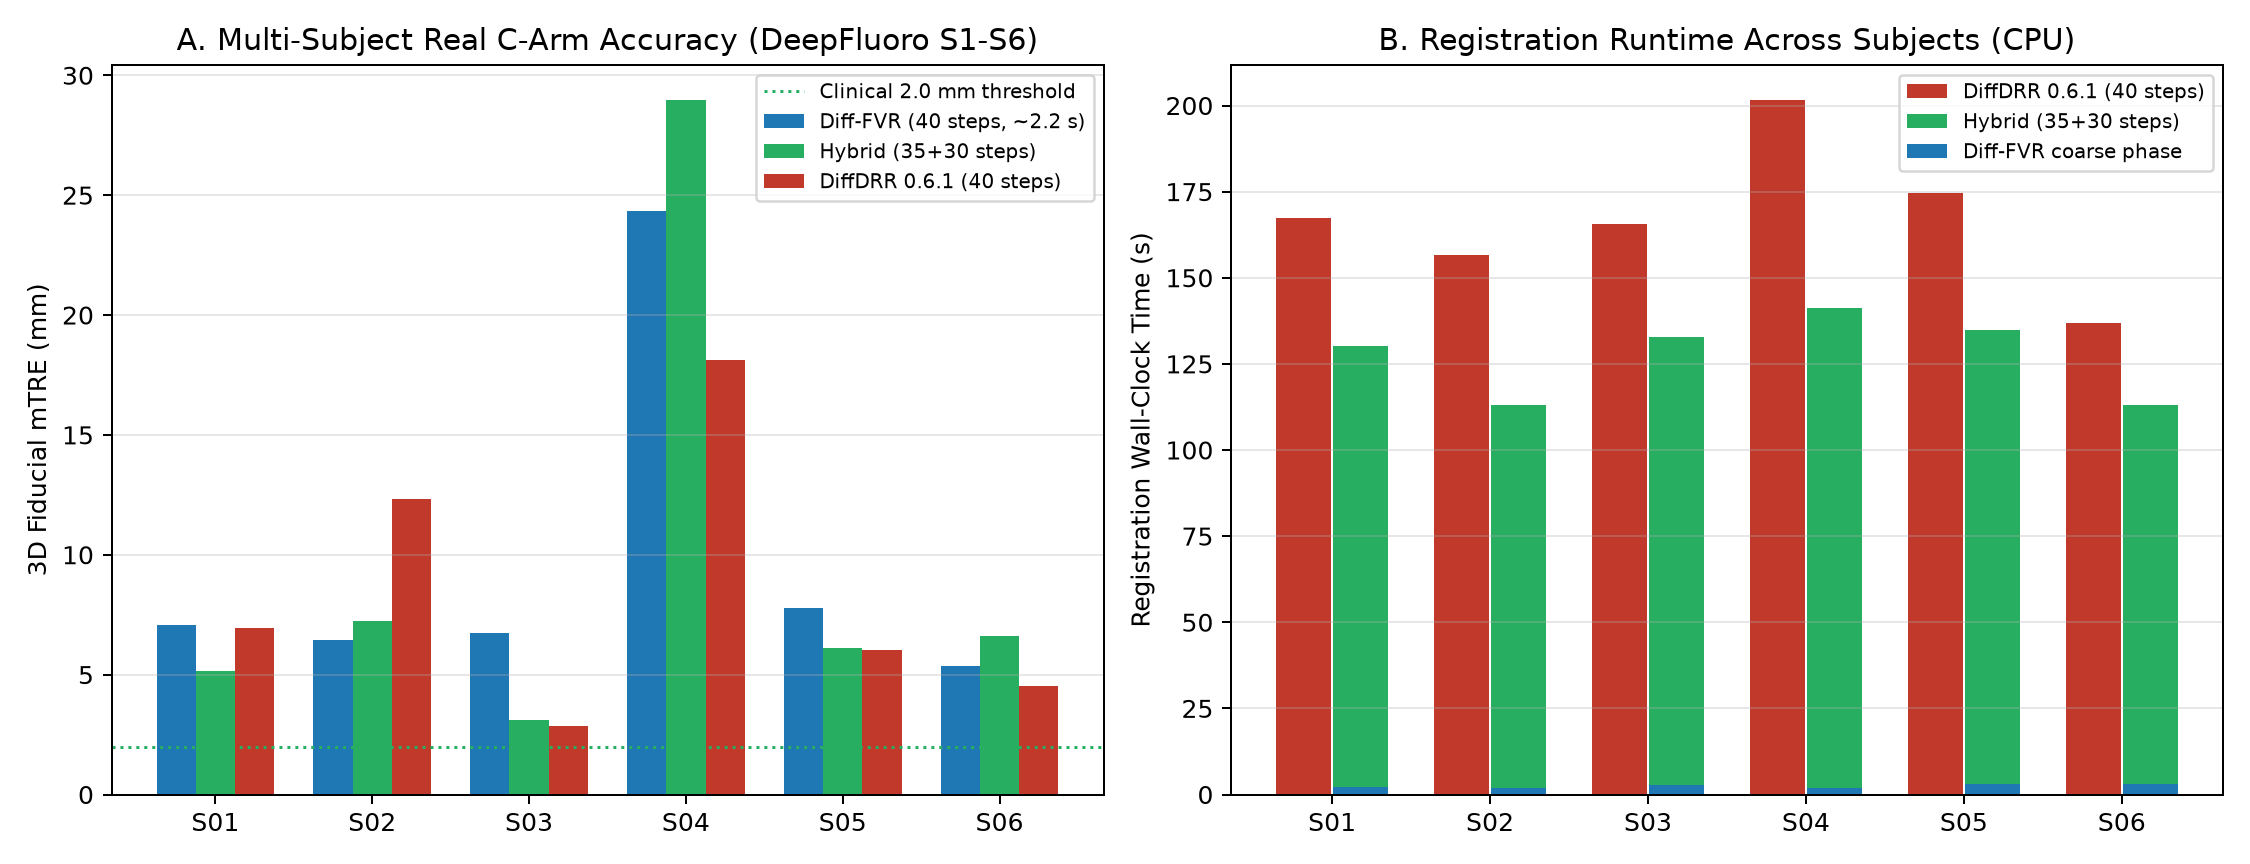
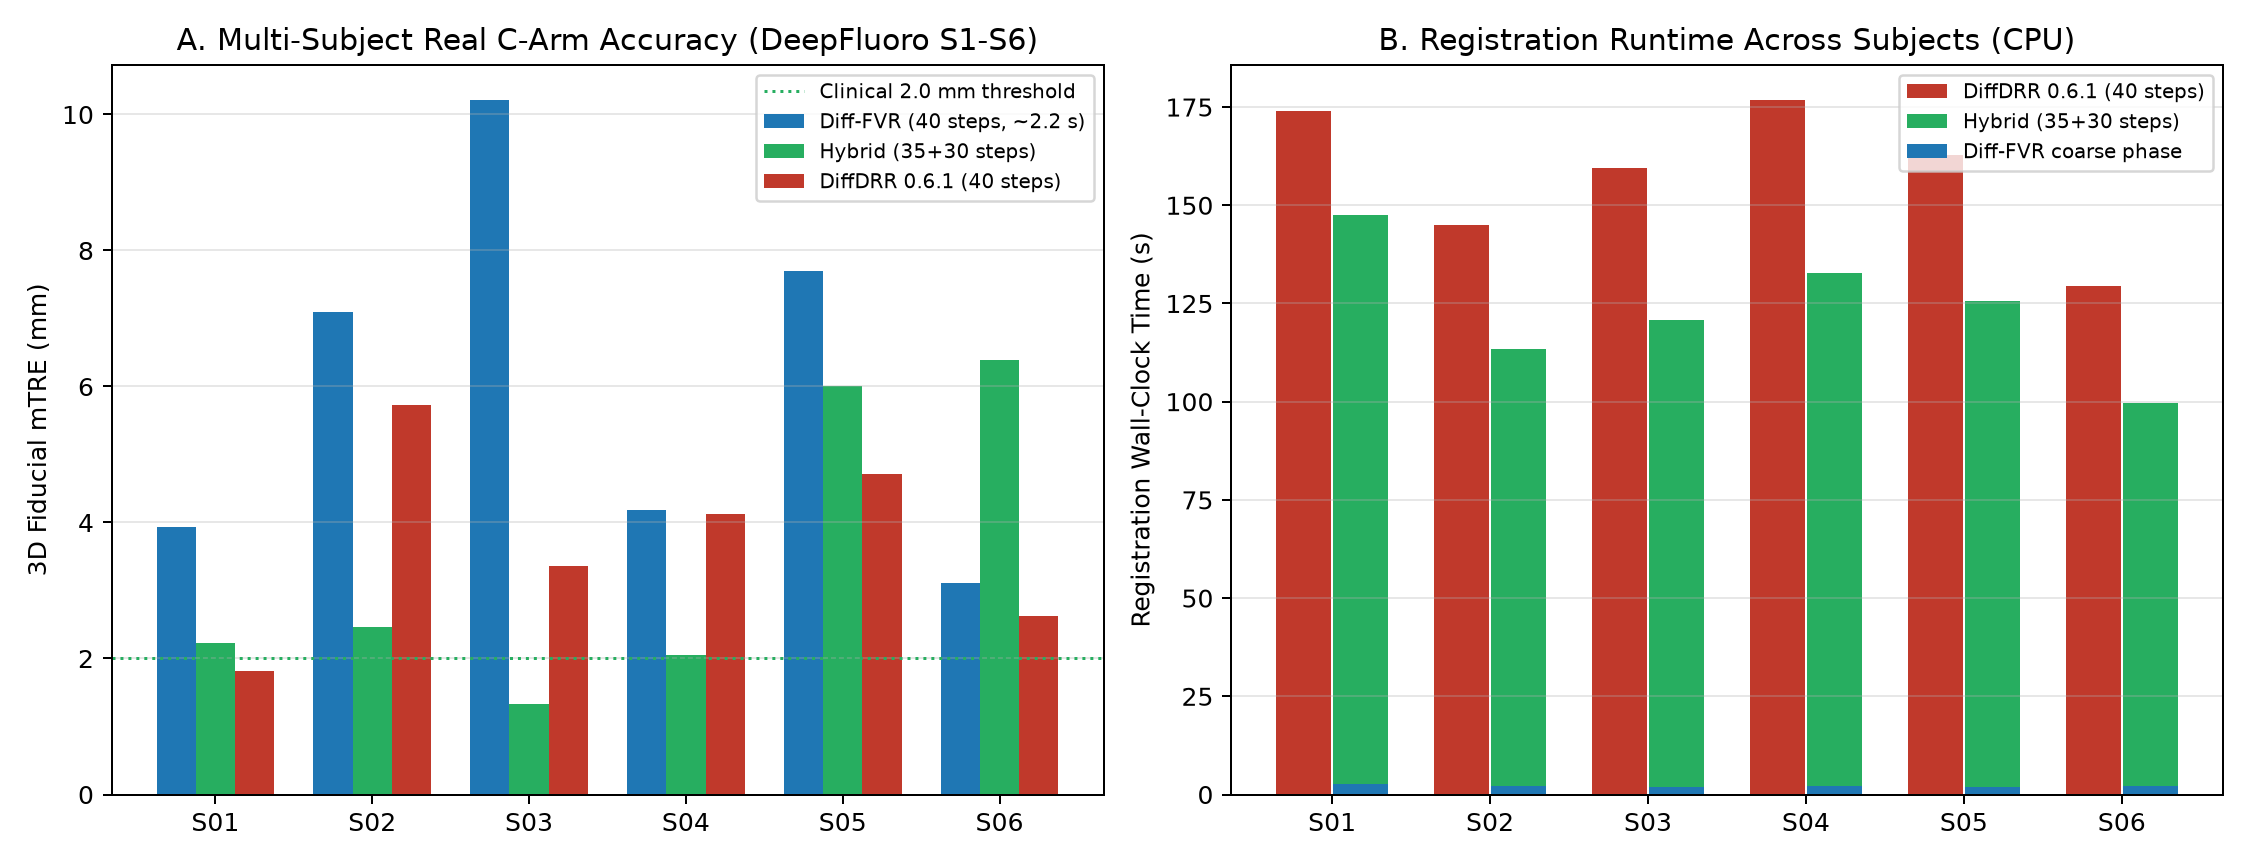
Tune exp26 with MNCC+GradNCC and gradient clipping across DeepFluoro S1-S6

diff --git a/experiments/exp26_deepfluoro_multisubject.py b/experiments/exp26_deepfluoro_multisubject.py
@@ -42,6 +42,22 @@ def ncc_2d(a: torch.Tensor, b: torch.Tensor) -> float:
     return float((a0 * b0).sum() / (a0.norm() * b0.norm() + 1e-8))
 
 
+def grad_ncc_2d(a: torch.Tensor, b: torch.Tensor) -> torch.Tensor:
+    kx = torch.tensor([[-1, 0, 1], [-2, 0, 2], [-1, 0, 1]], dtype=a.dtype, device=a.device).view(1, 1, 3, 3)
+    ky = torch.tensor([[-1, -2, -1], [0, 0, 0], [1, 2, 1]], dtype=a.dtype, device=a.device).view(1, 1, 3, 3)
+    ax = F.conv2d(a, kx, padding=1)[:, :, 16:-16, 16:-16]
+    ay = F.conv2d(a, ky, padding=1)[:, :, 16:-16, 16:-16]
+    bx = F.conv2d(b, kx, padding=1)[:, :, 16:-16, 16:-16]
+    by = F.conv2d(b, ky, padding=1)[:, :, 16:-16, 16:-16]
+
+    def _ncc(u: torch.Tensor, v: torch.Tensor) -> torch.Tensor:
+        u0 = u - u.mean()
+        v0 = v - v.mean()
+        return (u0 * v0).sum() / (u0.norm() * v0.norm() + 1e-8)
+
+    return 0.5 * (_ncc(ax, bx) + _ncc(ay, by))
+
+
 class DeepFluoroDiffFVR:
     """World-aligned 3D Fourier Volume Rendering slice engine for arbitrary CT FOV."""
 
@@ -211,26 +227,30 @@ def main():
         pose_initA = RigidTransform(delta0.matrix @ poseA.matrix)
         mtre_init = compute_mtre(pose_initA, poseA, fids)
 
+        def combined_loss(pred: torch.Tensor, target: torch.Tensor) -> torch.Tensor:
+            return -0.5 * mncc(pred[:, :, 16:-16, 16:-16], target[:, :, 16:-16, 16:-16]) - 0.5 * grad_ncc_2d(pred, target)
+
         def run_method(steps_fvr: int, steps_drr: int):
             r = torch.zeros(1, 3, requires_grad=True)
             t = torch.zeros(1, 3, requires_grad=True)
             ts = time.perf_counter()
             if steps_fvr > 0:
-                opt = torch.optim.Adam([{"params": [r], "lr": 0.004}, {"params": [t], "lr": 1.2}])
-                sched = torch.optim.lr_scheduler.CosineAnnealingLR(opt, T_max=steps_fvr, eta_min=2e-4)
+                opt = torch.optim.Adam([{"params": [r], "lr": 0.003}, {"params": [t], "lr": 1.0}])
+                sched = torch.optim.lr_scheduler.CosineAnnealingLR(opt, T_max=steps_fvr, eta_min=1e-4)
                 for _ in range(steps_fvr):
                     opt.zero_grad()
                     d_mat = convert(r, t, parameterization="euler_angles", convention="ZYX").matrix
                     pA = RigidTransform(d_mat @ pose_initA.matrix)
                     pB = RigidTransform(T_rel.matrix @ pA.matrix)
-                    lA = -mncc(fvr.forward(drrA, pA, H)[:, :, 8:-8, 8:-8], xrayA[:, :, 8:-8, 8:-8])
-                    lB = -mncc(fvr.forward(drrB, pB, H)[:, :, 8:-8, 8:-8], xrayB[:, :, 8:-8, 8:-8])
+                    lA = combined_loss(fvr.forward(drrA, pA, H), xrayA)
+                    lB = combined_loss(fvr.forward(drrB, pB, H), xrayB)
                     (0.5 * (lA + lB)).backward()
+                    torch.nn.utils.clip_grad_norm_([r, t], 1.0)
                     opt.step()
                     sched.step()
             if steps_drr > 0:
-                lr_r = 0.003 if steps_fvr > 0 else 0.004
-                lr_t = 0.9 if steps_fvr > 0 else 1.2
+                lr_r = 0.0025 if steps_fvr > 0 else 0.003
+                lr_t = 0.8 if steps_fvr > 0 else 1.0
                 opt2 = torch.optim.Adam([{"params": [r], "lr": lr_r}, {"params": [t], "lr": lr_t}])
                 sched2 = torch.optim.lr_scheduler.CosineAnnealingLR(opt2, T_max=steps_drr, eta_min=1e-4)
                 for _ in range(steps_drr):
@@ -238,9 +258,10 @@ def main():
                     d_mat = convert(r, t, parameterization="euler_angles", convention="ZYX").matrix
                     pA = RigidTransform(d_mat @ pose_initA.matrix)
                     pB = RigidTransform(T_rel.matrix @ pA.matrix)
-                    lA = -mncc(drrA(pA)[:, :, 8:-8, 8:-8], xrayA[:, :, 8:-8, 8:-8])
-                    lB = -mncc(drrB(pB)[:, :, 8:-8, 8:-8], xrayB[:, :, 8:-8, 8:-8])
+                    lA = combined_loss(drrA(pA), xrayA)
+                    lB = combined_loss(drrB(pB), xrayB)
                     (0.5 * (lA + lB)).backward()
+                    torch.nn.utils.clip_grad_norm_([r, t], 1.0)
                     opt2.step()
                     sched2.step()
             elapsed = time.perf_counter() - ts

diff --git a/README.md b/README.md
@@ -50,9 +50,9 @@ and 3D anatomical fiducials (`128×128` interior crop, CPU):
   **Hybrid** (`30 Diff-FVR + 15 DiffDRR`) reaches `5.93 mm` in `62.1 s`, matching
   pure DiffDRR (`5.95 mm` in `103.3 s`) with `40%` lower runtime.
 - **Multi-Subject Cohort (`exp26`, `subject01`–`subject06`, $N=6$):**
-  **`78.7x`** mean forward speedup (`16.4 ms` vs. `1267.4 ms`), mean
-  `NCC(Diff-FVR, DiffDRR) = 0.9550`, and `2.46 s` mean Diff-FVR registration
-  vs. `167.11 s` for DiffDRR.
+  **`88.3x`** mean forward speedup (`14.7 ms` vs. `1248.1 ms`), mean
+  `NCC(Diff-FVR, DiffDRR) = 0.9550`, `2.24 s` mean Diff-FVR registration
+  (`6.04 mm`), and `3.41 mm` Hybrid (`123.27 s`) vs. `3.73 mm` DiffDRR (`157.97 s`).
 
 ## Projection geometry and physical units
 
